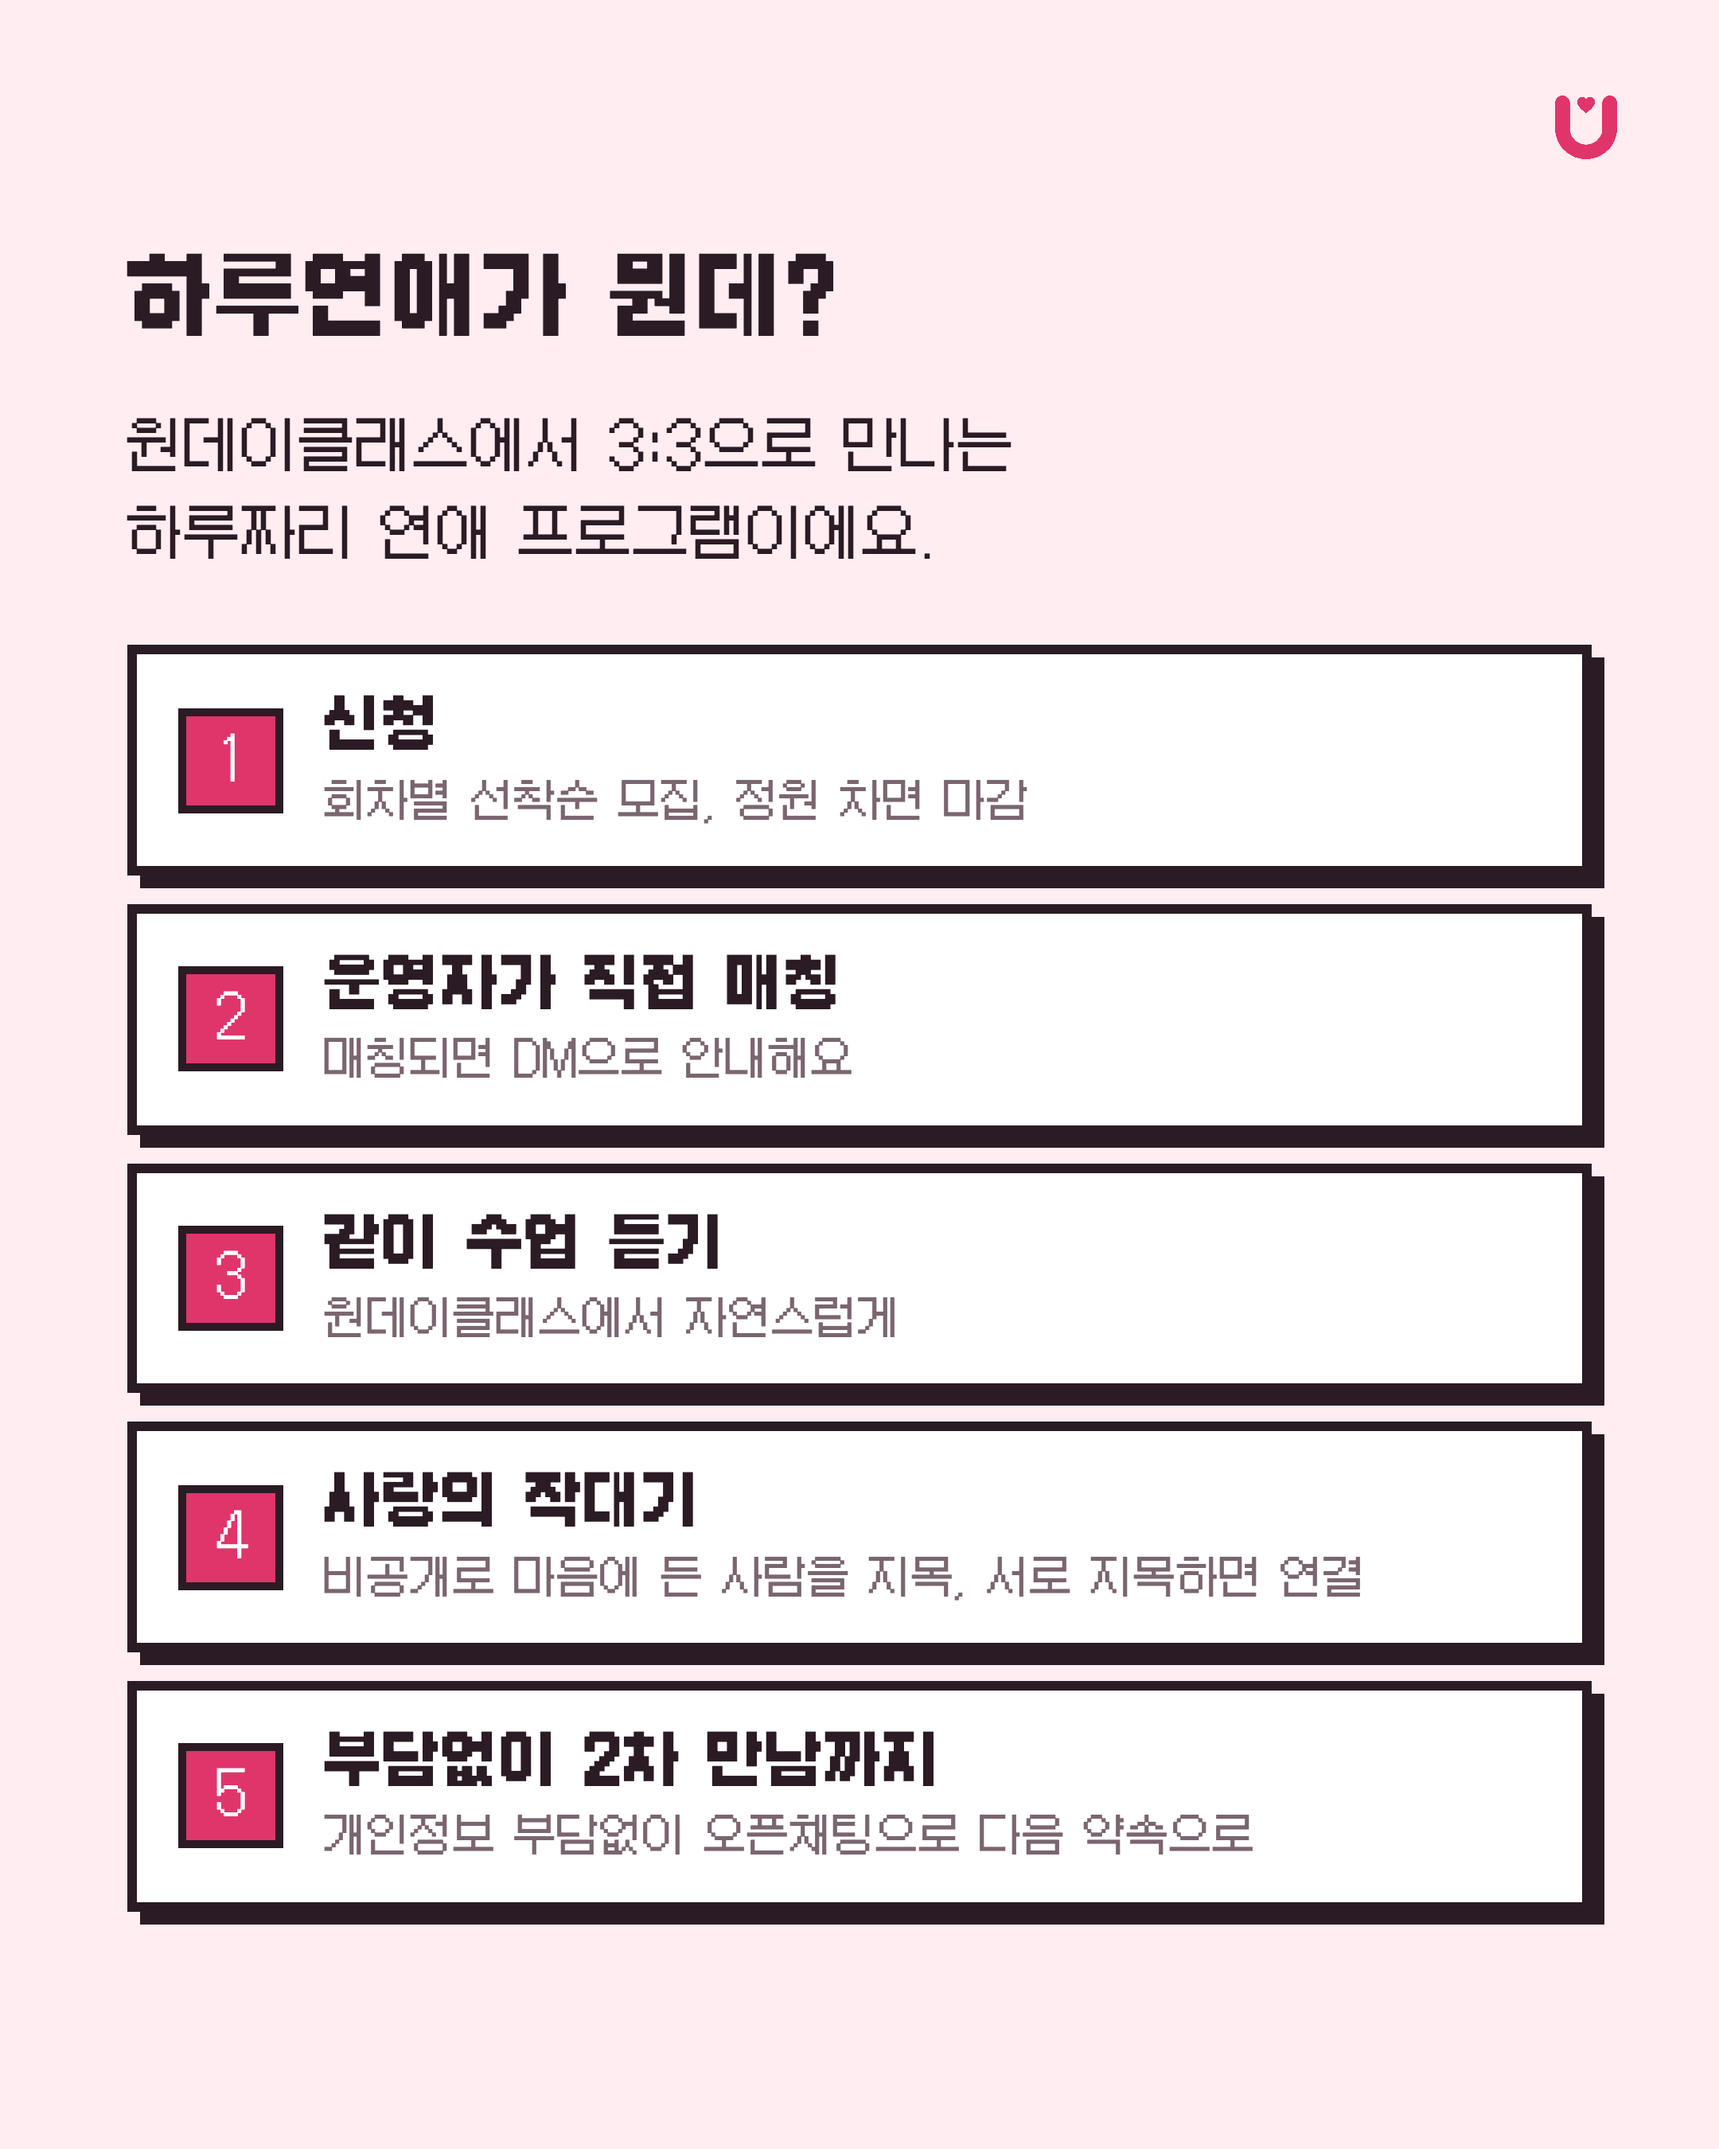
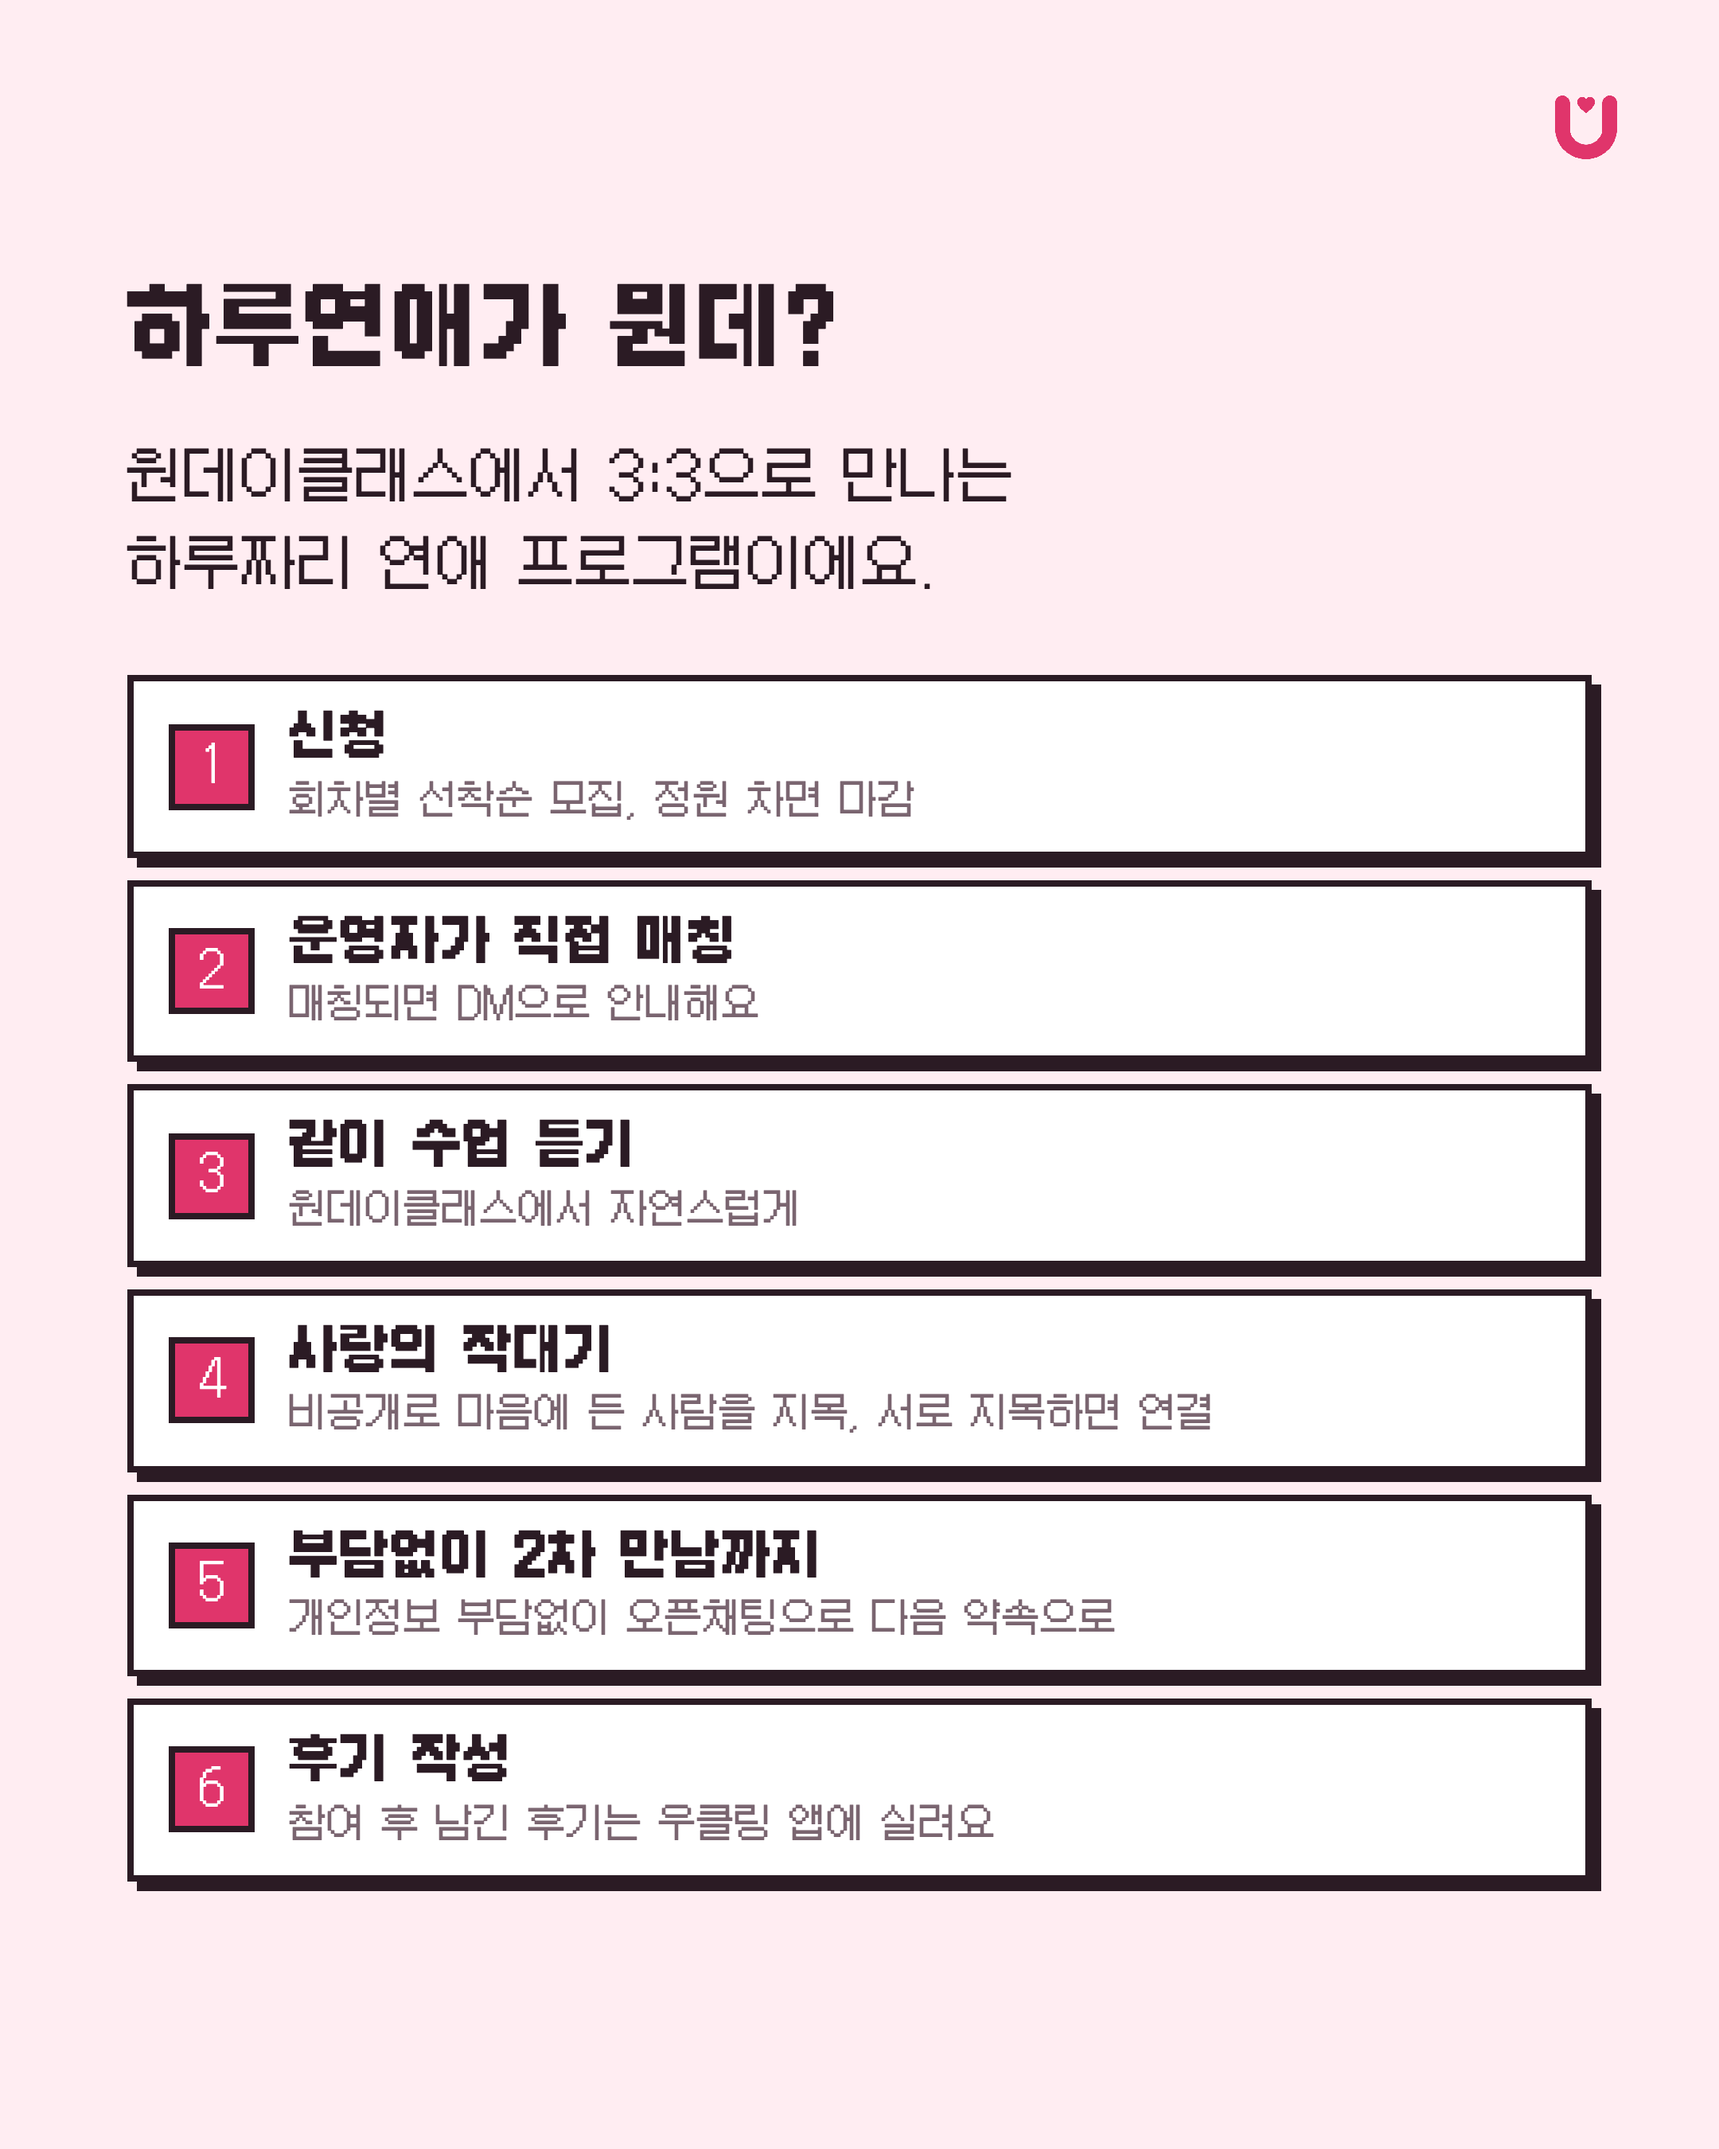
후기 필수 동의 추가 + 태그라인 변경 + 카드 다듬기
- 웹: '후기 참여 동의' 필수 체크박스 신설(구글폼 DM·앱 활용 명시), app.js 검증 추가
- 태그라인 "소개팅은 망해도 머그컵은 남으니까!" (웹 히어로·메타·카드)
- 소개 세트 진행순서 6.후기 작성 추가 + 리스트 크기 축소
- 기획서에 카드뉴스 3세트 내용 반영

Claude-Session: https://claude.ai/code/session_016NTfZYusKQijEUYPhviCHK

Changed region(s): [[0.062, 0.0933, 0.9306, 0.9022]]

diff --git a/index.html b/index.html
@@ -3,8 +3,8 @@
 <head>
   <meta charset="utf-8" />
   <meta name="viewport" content="width=device-width, initial-scale=1, viewport-fit=cover" />
-  <title>우클링 하루연애 — 소개팅은 망해도 머그컵은 남는다</title>
-  <meta name="description" content="소개팅은 망해도 머그컵은 남는다. 동네 원데이 클래스에서 3:3로 자연스럽게 만나는 우클링 하루연애. 지금 신청하세요." />
+  <title>우클링 하루연애 — 소개팅은 망해도 머그컵은 남으니까!</title>
+  <meta name="description" content="소개팅은 망해도 머그컵은 남으니까! 동네 원데이 클래스에서 3:3로 자연스럽게 만나는 우클링 하루연애. 지금 신청하세요." />
 
   <!-- 파비콘 (brand/DESIGN-SYSTEM.md §5) -->
   <link rel="icon" href="brand/png/favicon/favicon.ico" sizes="any" />
@@ -12,7 +12,7 @@
   <link rel="apple-touch-icon" href="brand/png/app-icon/app-icon-180.png" />
 
   <!-- OG (인스타/메타 공유용) -->
-  <meta property="og:title" content="우클링 하루연애 — 소개팅은 망해도 머그컵은 남는다" />
+  <meta property="og:title" content="우클링 하루연애 — 소개팅은 망해도 머그컵은 남으니까!" />
   <meta property="og:description" content="동네 원데이 클래스에서 3:3로 자연스럽게. 지금 신청하세요." />
   <meta property="og:image" content="brand/png/profile/profile-512.png" />
   <meta property="og:type" content="website" />
@@ -72,7 +72,7 @@
 
       <img class="hero__symbol" src="brand/svg/symbol-twotone.svg" alt="우클링" width="44" height="45" />
       <p class="hero__round" id="roundBadge">우클링 하루연애 신청</p>
-      <h1 class="hero__title">소개팅은 망해도<br />머그컵은 남는다</h1>
+      <h1 class="hero__title">소개팅은 망해도<br />머그컵은 남으니까!</h1>
       <p class="hero__sub">
         연애 프로그램에 나가보고 싶던 마음,<br />
         동네 원데이 클래스에서 가볍게.
@@ -284,6 +284,19 @@
               <label class="agree">
                 <input type="checkbox" id="agree" name="개인정보동의" value="동의" required />
                 <span>위 내용에 동의합니다. (필수)</span>
+              </label>
+            </div>
+
+            <!-- 후기 참여 동의 -->
+            <div class="consent">
+              <p class="consent__title">[필수] 후기 참여 동의</p>
+              <p class="consent__body">
+                프로그램이 끝난 후, 후기를 받을 구글폼을 인스타 DM으로 보내드려요.
+                작성해주신 후기는 <b>우클링 앱에 실려요.</b>
+              </p>
+              <label class="agree">
+                <input type="checkbox" id="reviewAgree" name="후기동의" value="동의" required />
+                <span>후기 작성에 참여할게요. (필수)</span>
               </label>
             </div>
 

diff --git a/insta/cards.html b/insta/cards.html
@@ -93,20 +93,21 @@
 
   /* 진행 순서 블럭 */
   .flow { display: flex; flex-direction: column; gap: 18px; }
+  .flow { gap: 14px; }
   .flow .item {
     background: var(--white);
-    border: var(--px-line) solid var(--plum);
-    box-shadow: var(--px-shadow-sm);
-    padding: 22px 26px; display: flex; gap: 26px; align-items: center;
+    border: 4px solid var(--plum);
+    box-shadow: 6px 6px 0 var(--plum);
+    padding: 16px 22px; display: flex; gap: 22px; align-items: center;
   }
   .flow .n {
-    flex: 0 0 auto; width: 66px; height: 66px;
+    flex: 0 0 auto; width: 54px; height: 54px;
     background: var(--rose); color: var(--white);
-    border: 5px solid var(--plum);
-    display: grid; place-items: center; font-family: "Galmuri14"; font-size: 32px;
+    border: 4px solid var(--plum);
+    display: grid; place-items: center; font-family: "Galmuri14"; font-size: 27px;
   }
-  .flow .t { font-size: 37px; font-weight: 700; line-height: 1.25; }
-  .flow .d { font-size: 27px; color: var(--plum-mute); margin-top: 6px; line-height: 1.35; }
+  .flow .t { font-size: 32px; font-weight: 700; line-height: 1.2; }
+  .flow .d { font-size: 24px; color: var(--plum-mute); margin-top: 5px; line-height: 1.3; }
 
   /* 포스트잇 (왜 클래스에서 만나?) */
   .postit {
@@ -234,6 +235,7 @@
     <li class="item"><span class="n">3</span><div><div class="t">같이 수업 듣기</div><div class="d">원데이클래스에서 자연스럽게</div></div></li>
     <li class="item"><span class="n">4</span><div><div class="t">사랑의 작대기</div><div class="d">비공개로 마음에 든 사람을 지목, 서로 지목하면 연결</div></div></li>
     <li class="item"><span class="n">5</span><div><div class="t">부담없이 2차 만남까지</div><div class="d">개인정보 부담없이 오픈채팅으로 다음 약속으로</div></div></li>
+    <li class="item"><span class="n">6</span><div><div class="t">후기 작성</div><div class="d">참여 후 남긴 후기는 우클링 앱에 실려요</div></div></li>
   </ul>
 </section>
 
@@ -241,7 +243,7 @@
 <section class="card set1 dots" data-name="01_소개_03">
   <img class="card__logo" src="assets/ucling-wordmark-round-rose.png" alt="우클링" />
   <h2 class="title title--bold">왜 클래스에서<br />만나?</h2>
-  <p class="why-sub">소개팅은 망해도 머그컵은 남는다</p>
+  <p class="why-sub">소개팅은 망해도 머그컵은 남으니까!</p>
   <div class="postit" style="margin-top:44px">
     <ul>
       <li><svg class="pxstar b" width="30" height="30"><use href="#pxstar"/></svg>손이 바쁘면 어색할 틈이 없어요</li>

diff --git a/app.js b/app.js
@@ -99,6 +99,7 @@ function collect() {
     연락처: form.contact.value.trim(),
     인스타: form.insta.value.trim(),
     개인정보동의: form.agree.checked ? "동의" : "",
+    후기동의: form.reviewAgree.checked ? "동의" : "",
     _시간대개수: times.length, // 검증용 (전송 전 제거)
     _관심개수: classes.length, // 검증용 (전송 전 제거)
   };
@@ -118,6 +119,7 @@ function validate(d) {
   if (!d.연락처) return "연락처를 입력해주세요.";
   if (!d.인스타) return "인스타 아이디를 입력해주세요.";
   if (!d.개인정보동의) return "개인정보 수집·이용에 동의해주세요. (필수)";
+  if (!d.후기동의) return "후기 참여에 동의해주세요. (필수)";
   return null;
 }
 

diff --git a/소개팅 마케팅 기획서.md b/소개팅 마케팅 기획서.md
@@ -76,7 +76,29 @@
   - 참가자 후기, 현장 스케치(고려)
   - “나도 연프 나가보고 싶다” 감성 릴스
 - 관리 - 박서연
-- 톤: 몽글몽글, 설렘, 감성 (연프 감성 일관되게)
+- 톤: 몽글몽글, 설렘, 감성 + **픽셀 다이어리 감성** (연프 감성 일관되게)
+
+### 제작한 카드뉴스 (픽셀 감성 캐러셀 3세트, 총 9장)
+
+> 웹페이지와 동일한 픽셀(Galmuri 폰트) 톤. 피드에서 세트가 한눈에 구분되도록 배경을 다르게.
+> 각 세트 마지막 장에 “신청은 프로필 링크에서” CTA. 소스·이미지: `insta/` 폴더.
+
+- **세트 1 · 소개 (4장, 연핑크+하트 배경)**
+  1. 표지 — “우클링 하루연애란?” / 연프 나가보고 싶었던 적 있어?
+  2. 하루연애가 뭔데? + 진행순서 5단계 (① 신청(회차별 선착순) → ② 운영자가 직접 매칭 → ③ 같이 수업 듣기 → ④ 사랑의 작대기(비공개 지목) → ⑤ 부담없이 2차 만남까지(오픈채팅))
+  3. 왜 클래스에서 만나? “소개팅은 망해도 머그컵은 남는다” + 이유 3가지
+  4. 많은 관심 부탁드려요 + CTA
+- **세트 2 · QnA (4장, 화이트+하트 배경)**
+  1. 표지 — “QnA / 궁금한 거 다 모았어요”
+  2. 혼자 신청해도 돼요?(개인만) · 누가 오나요?(20-30대) · 얼마예요?(클래스비만)
+  3. 어디서·언제?(서울, DM 매칭) · 안전한가요?(정보 운영자만·3개월 후 파기·오픈채팅)
+  4. 우클링이 뭐예요?(‘우리들의 클래스 링크’, 원데이 클래스 예약 플랫폼) · 어디서 주관?(과기정통부 지원 AI·SW 마에스트로 개발팀) + CTA
+- **세트 3 · 1회차 모집 안내 (1장, 진한 로즈 배경)**
+  - 신청 마감 9/13(일) 23:59 · 매칭 안내 9/15(화) DM · 클래스 진행 9/18~20 중 하루 · 장소 서울(매칭 후 안내) · 3:3 선착순
+  - “우클링은 수수료 없음, 클래스비만 직접 결제”
+
+> 회차·일정이 바뀌면 `insta/cards.html` 수정 후 `cd insta && node export.mjs` 로 PNG 재생성.
+> 로고는 현재 임시(심볼) — 실제 워드마크로 교체 예정.
 
 ---
 
